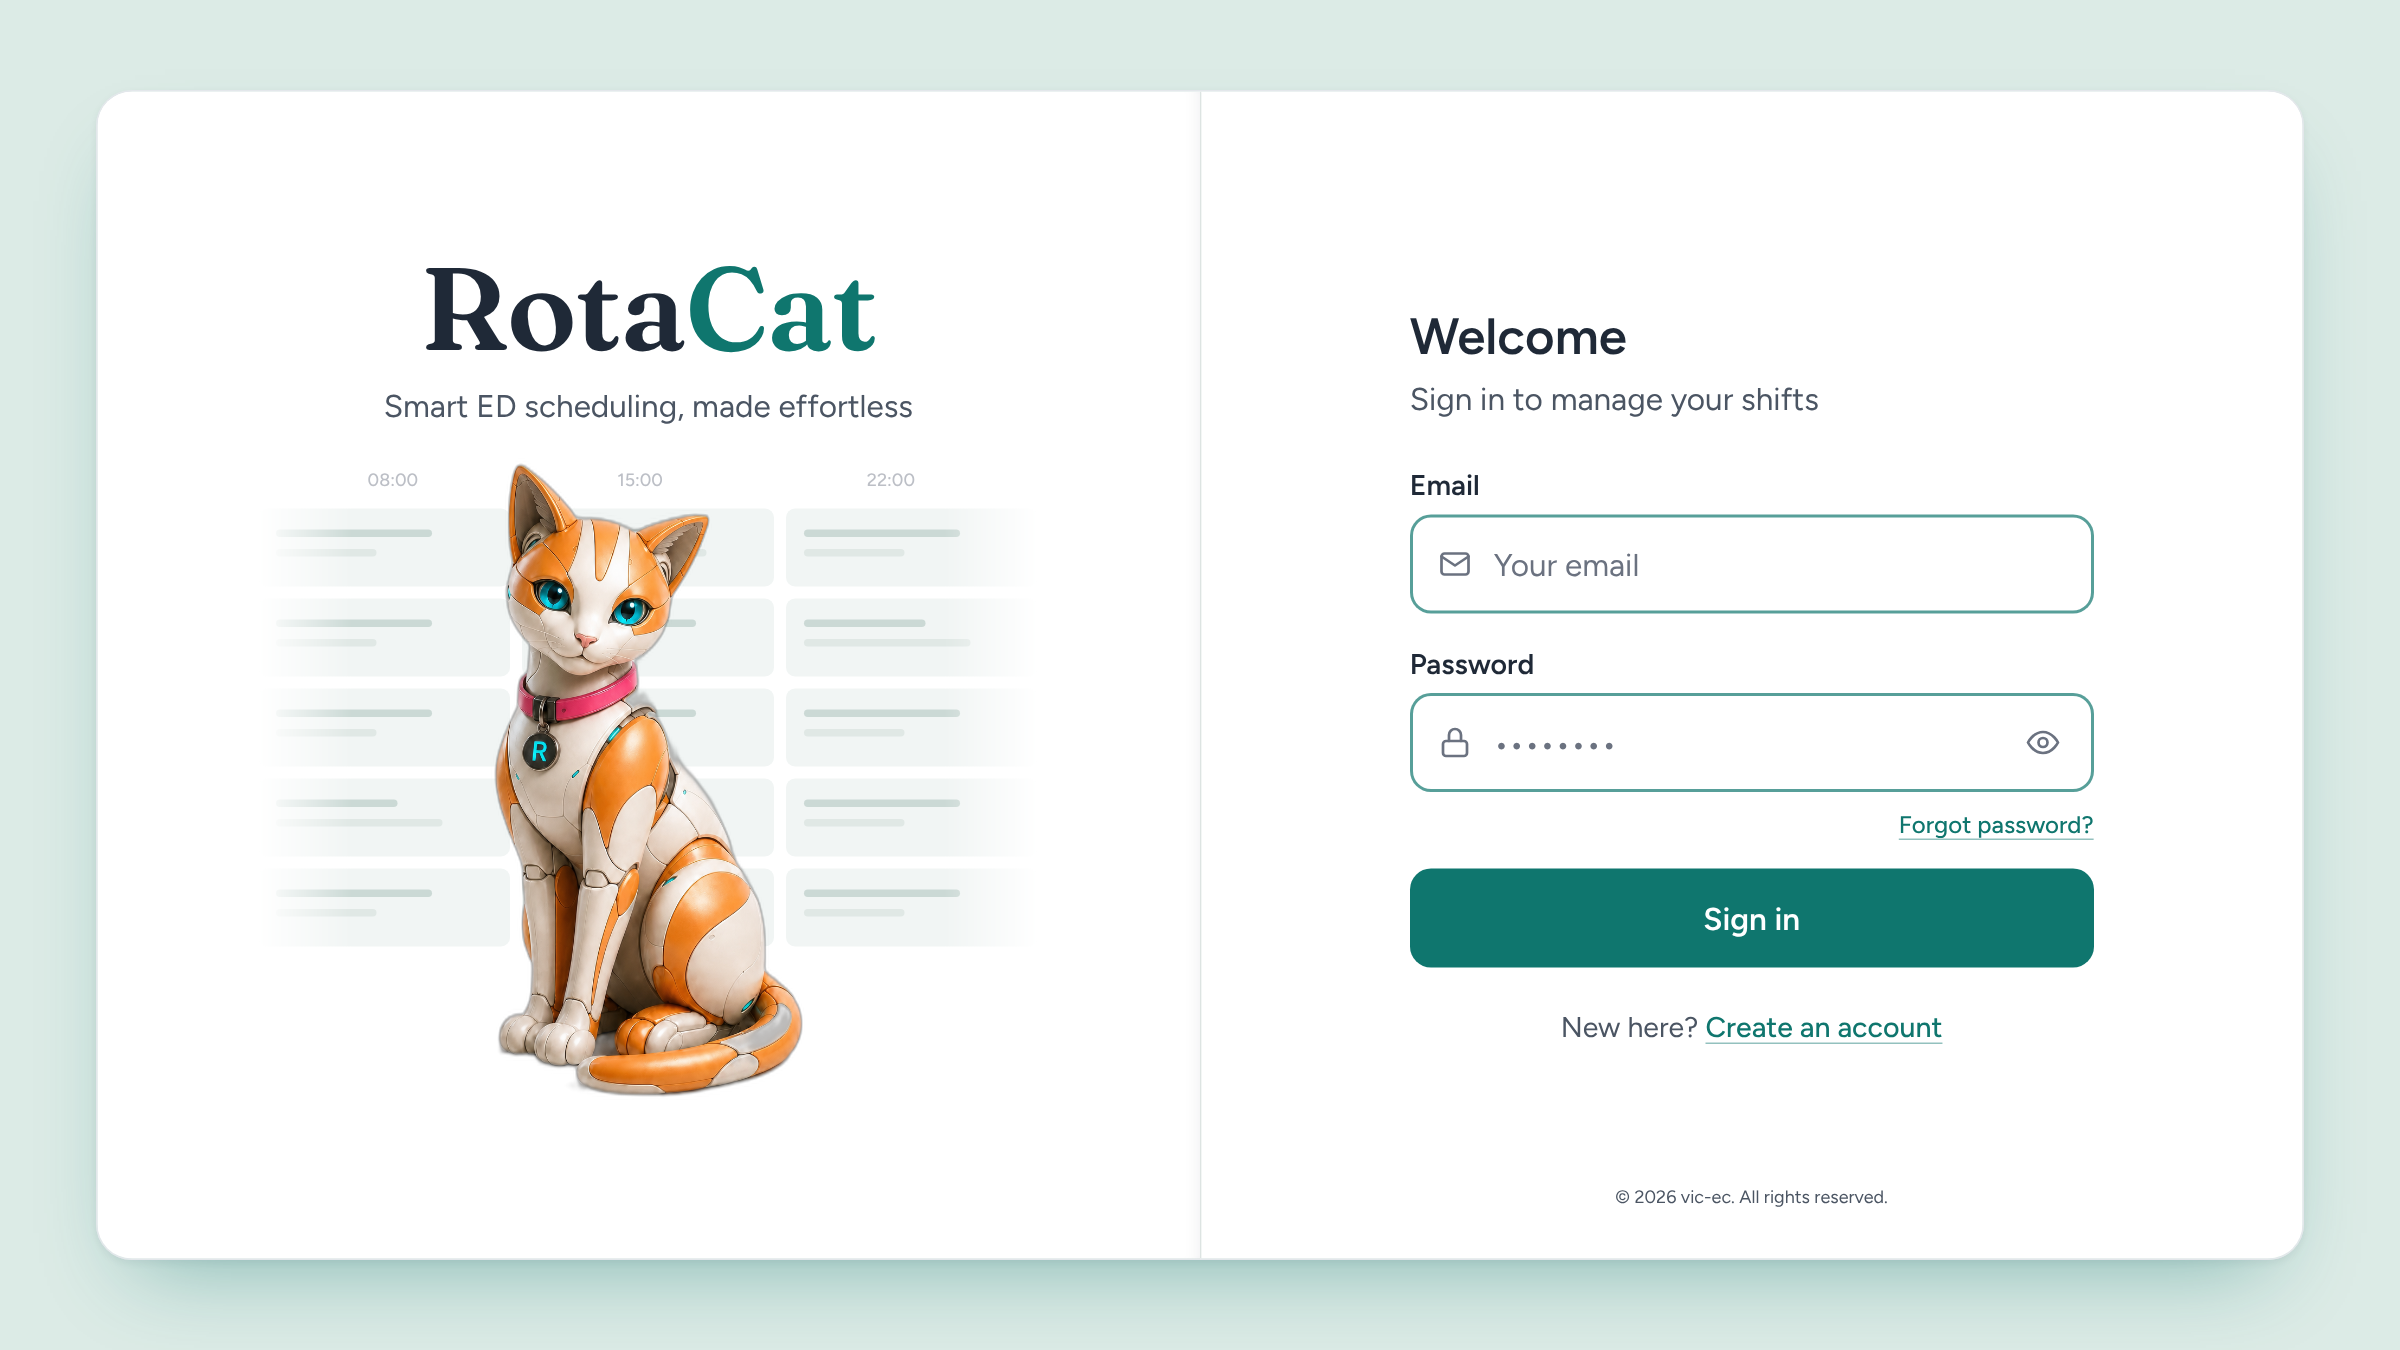
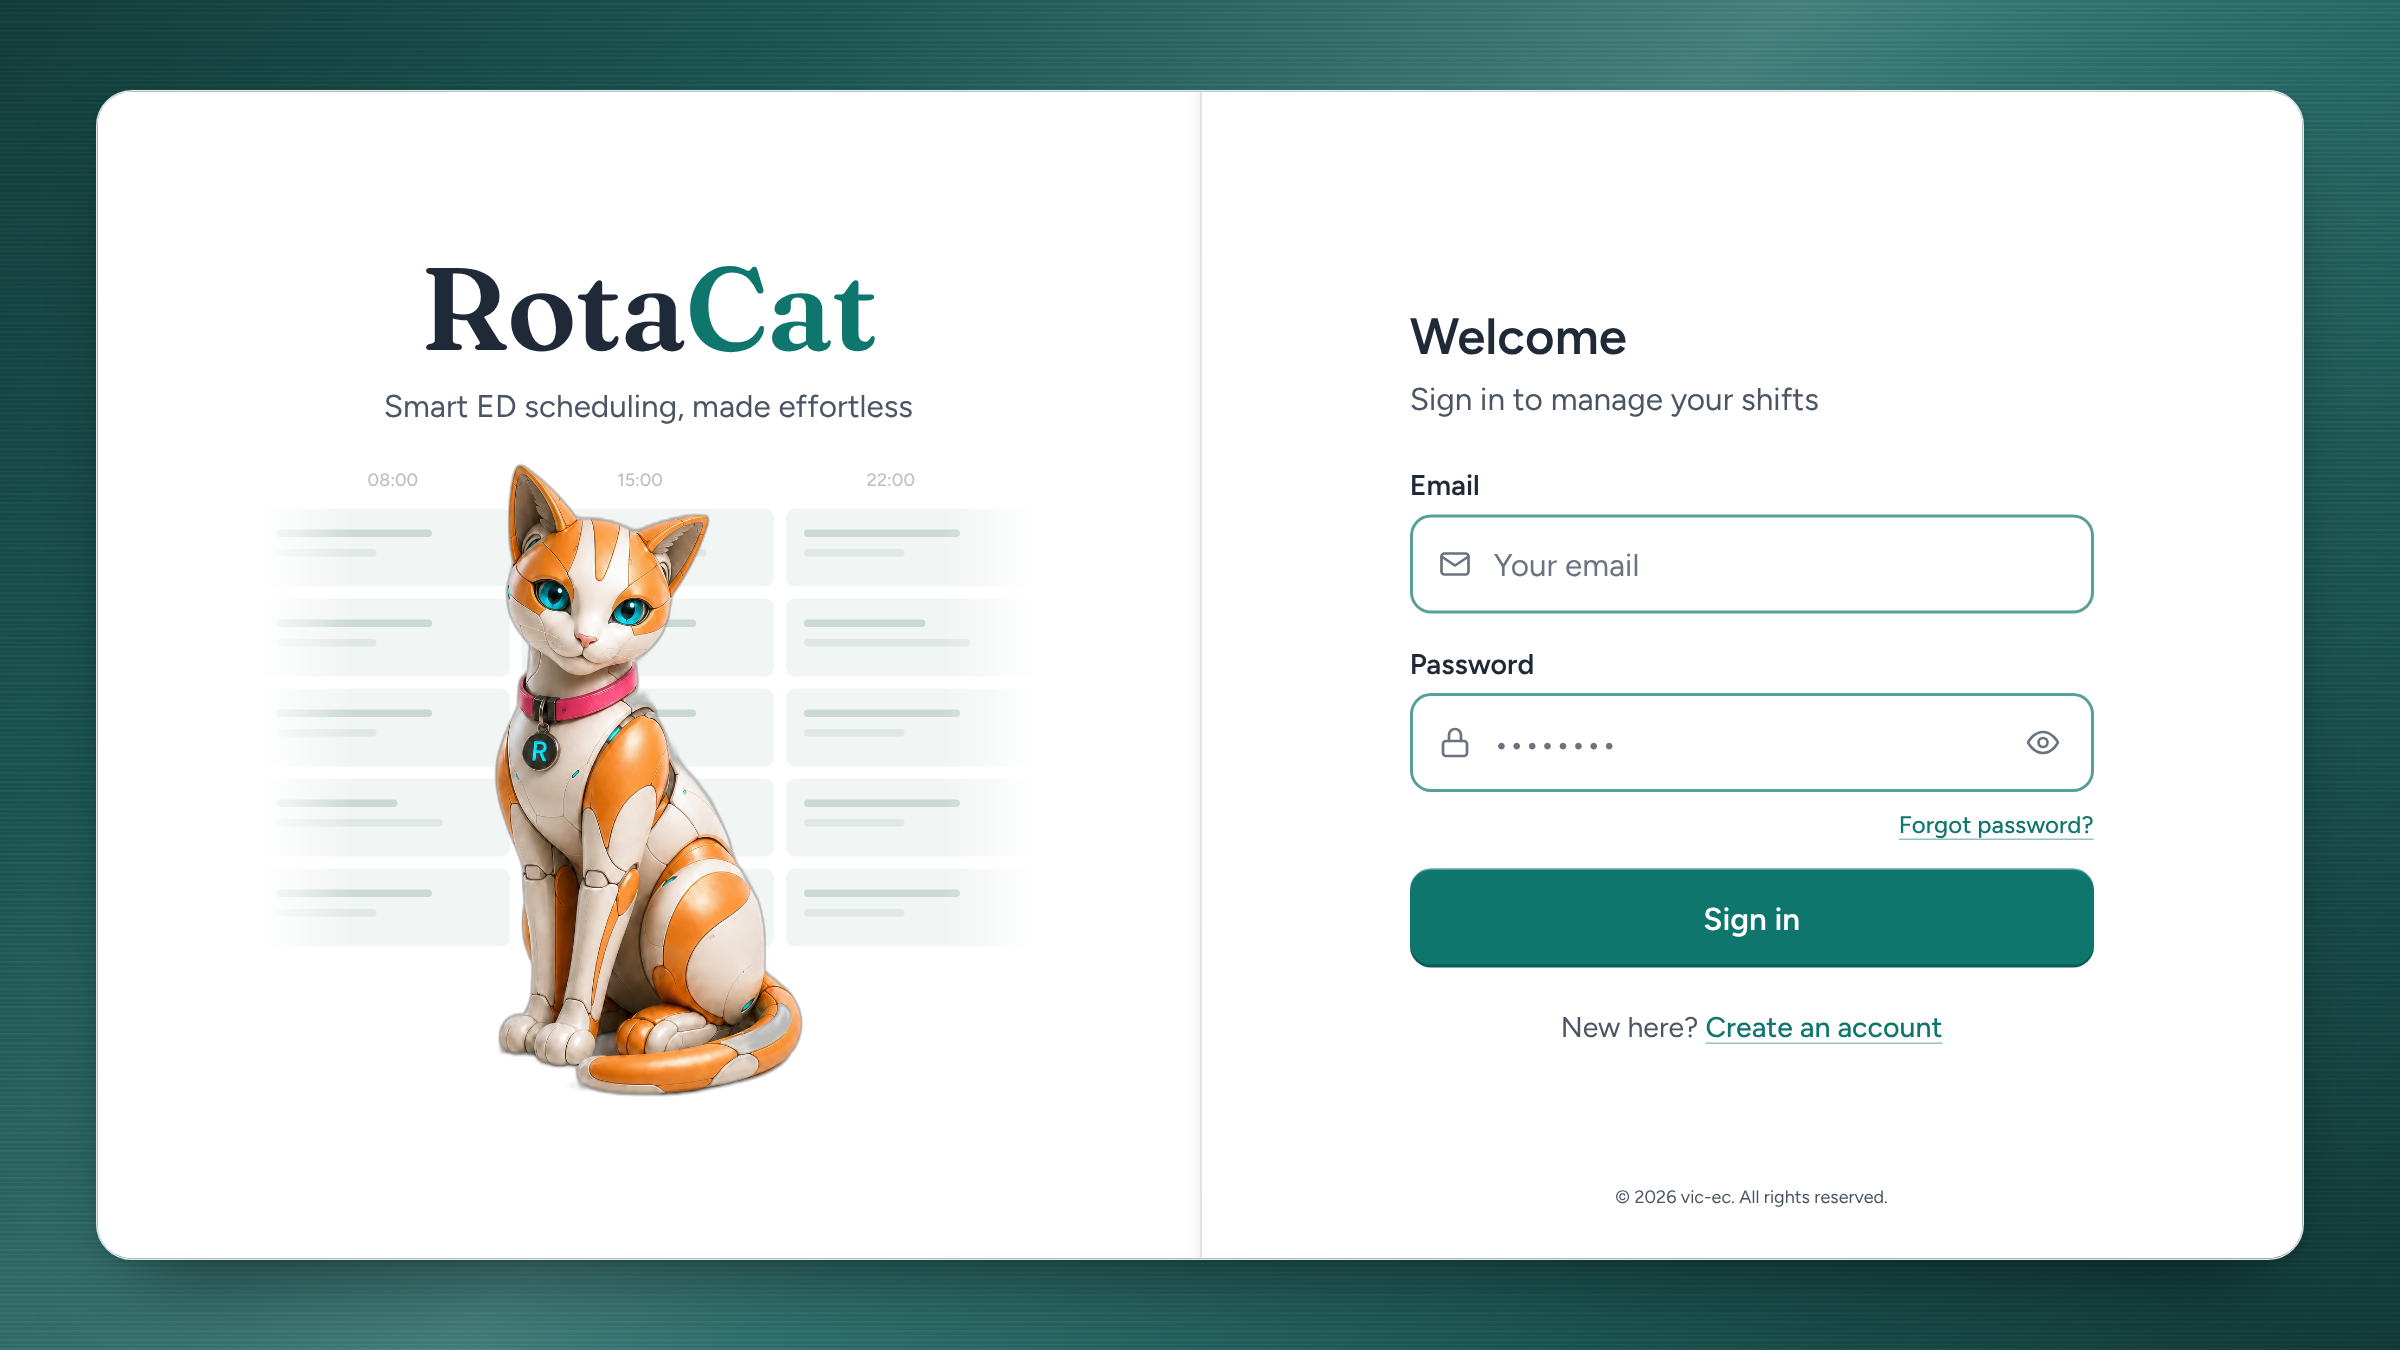
Add files via upload

Changed region(s): [[0.0, 0.0, 1.0, 1.0]]

diff --git a/docs/design/login-redesign/SPEC.md b/docs/design/login-redesign/SPEC.md
@@ -1,6 +1,6 @@
 # RotaCat Login — Implementation Spec
 
-Oct 31, 2026 · Paul Xafis
+Oct 31, 2026 (revised 1 Nov 2026) · Paul Xafis
 
 ## How to work
 
@@ -9,62 +9,101 @@ This doc is the complete brief for rebuilding `/login` in `vic-ec/RotaCat`. Foll
 1. Inspect before editing: `src/pages/LoginPage.jsx`, `AuthHero.jsx`, `MobileAuthHero.jsx`, `PasswordRevealToggle.jsx`, `CapsLockNotice.jsx`, `AuthFooter.jsx`, `src/styles/index.css`, `tailwind.config.js`, `index.html`, and `package.json` (React version decides the `inert` syntax).
 2. Reuse the existing token system (`--color-*` in `index.css`, mapped in `tailwind.config.js`). Add tokens; do not hard-code hex in components.
 3. No new dependencies, UI libraries or animation libraries.
-4. Do not change: fonts, font sizes, font colours (except where the Accessibility table says so), the mascot image and its treatment, the decorative roster grid and its time labels, the password visibility toggle's icon and behaviour, authentication logic, validation rules, routes, Turnstile.
+4. Do not change: fonts, font sizes, font colours (except where the Accessibility table says so), the mascot image and its treatment, the decorative roster grid and its time labels, the password visibility toggle's icon and behaviour, authentication logic, validation rules, routes, Turnstile. Button sizes, radii and labels stay as they are; only the surface treatment changes.
 5. One `SignInForm` component, mounted inline on desktop and inside the existing modal on mobile.
-6. Run lint and build; test desktop (1024, 1440) and mobile (390) before reporting. Finish with: files changed, tokens added, anything from this doc not done and why.
+6. Work in two commits: (a) login page and tokens, (b) app-wide button treatment. Run lint and build after each; test desktop (1024, 1440) and mobile (390) before reporting. Finish with: files changed, tokens added, every button location touched, anything from this doc not done and why.
 
 ## Decisions
 
-The login page moves to a light two-tone card with the sign-in form shown inline on desktop. No dark teal and no mint behind the form.
+The login page becomes a white two-half card on a deep blue-green page with a brushed-metal sheen, the sign-in form inline on desktop, and a bevelled button treatment applied to every button in the app. Decided 1 Nov 2026; supersedes the theme C / light-mint decision of 31 Oct.
 
 | Decision | Choice | Why |
 | --- | --- | --- |
-| Page background | Light mint `#DCEBE6` | Replaces the dark teal `#0F766E` full-page background |
-| Brand half (wordmark, mascot, grid) | White `#FFFFFF` (theme C) | Both halves white; the light-mint page carries the brand colour |
-| Login half | White `#FFFFFF`, flush against the brand half | Highest contrast for the form; the two halves share one shell |
+| Page background | Blue-green 6 `#1F6763` with sheen | Deep enough that the white card is the only light object; hue still reads on a weak monitor; same hue family as the app's teal |
+| Sheen | Corner-dark diagonal, highlight running bottom-left to top-right, 1 px horizontal grain | Brushed-metal satin, not gloss. Pure CSS, no image |
+| Brand half and login half | Both white `#FFFFFF`, flush, 1 px seam | The card is the spotlight; the page carries the colour |
 | Desktop form | Inline at `lg:` (1024 px+); modal kept for mobile | Saves a click per login and removes the modal focus-trap problem on desktop |
-| Text links | Teal `#0F766E` for "Forgot password?" and "Create an account" | Rose `#D6577E` on white is 3.80:1 and fails AA; teal on white is 5.47:1. Rose stays a brand accent (mascot collar), not a UI colour |
+| Buttons (app-wide) | Inset bevel: 1 px light top edge, 2 px dark bottom edge, no drop shadow | Reads as a physical key against the brushed page; applies to every button, mobile and desktop |
+| Text links | Teal `#0F766E` for "Forgot password?" and "Create an account" | Rose `#D6577E` on white is 3.80:1 and fails AA; teal on white is 5.47:1. Rose stays a brand accent, not a UI colour |
 | Email placeholder | `Your email` | Neutral; no organisation domain |
+| Mobile sheet | White, on the same deep page | The old mint sheet does not work on a deep page; see Mobile |
 | Fonts, sizes, font colours | Unchanged from live | Fraunces wordmark, Figtree body, `#1F2937` / `#4B5563` ink |
 | Decorative roster grid | Unchanged | Decorative, `aria-hidden`; time labels stay faint |
 
 ## Visual spec
 
-One raised shell, two flush white halves, a 1 px seam, on a light-mint page. Theme C, approved 31 Oct.
+One raised white card, two flush halves, a 1 px seam, on a deep blue-green brushed-metal page. Approved 1 Nov.
 
-![Target: theme C, desktop 1600 px, inline form](./target-desktop.png)
+![Target: Blue-green 6 with sheen, desktop 1600 px, inline form, bevelled button](./target-desktop.png)
 
 | Token | Value | Use |
 | --- | --- | --- |
-| `--color-canvas` | `#DCEBE6` | Page background (light mint) |
-| `--color-panel` | `#FFFFFF` | Both halves |
+| `--color-canvas` | `#1F6763` | Page base colour (Blue-green 6) |
+| `--bg-canvas-sheen` | see CSS block below | Page background: the sheen layers over `--color-canvas`. Apply to the auth page wrapper on desktop and mobile |
+| `--color-panel` | `#FFFFFF` | Both halves of the card; the mobile sheet |
 | `--color-seam` | `#DDE4E2` | 1 px divider; plus `box-shadow: inset -10px 0 14px -14px rgba(15,23,42,.14)` on the brand half's right edge |
-| `--color-shell-border` | `#E3E7EB` | 1 px hairline round the shell |
+| `--color-shell-border` | `#E3E7EB` | 1 px hairline round the card |
 | `--color-grid-cell` | `#F1F5F4` | Decorative roster cells |
 | `--color-grid-bar` | `#CBD9D5` / `#E0E8E5` | Bars inside cells (primary / secondary) |
-| Shell radius | 24 px | Outer corners only; halves square |
-| Shell shadow | `0 28px 56px -26px rgba(15,118,110,.45), 0 2px 6px rgba(15,23,42,.06), inset 0 1px 0 rgba(255,255,255,.95)` | One shadow on the shell, none on the halves |
-| Shell inset | 60 px top/bottom, 64 px sides at 1600 px | Scale with viewport; halves stay 50/50 |
+| Card radius | 24 px | Outer corners only; halves square |
+| Card shadow | `0 30px 60px -26px rgba(0,0,0,.6), 0 2px 6px rgba(15,23,42,.10), inset 0 1px 0 rgba(255,255,255,.95)` | Near-black so the card separates from the deep page |
+| Card inset | 60 px top/bottom, 64 px sides at 1600 px | Scale with viewport; halves stay 50/50 |
 | Form width | 456 px, centred in the login half | Heading, fields, button and links share this width |
 | Input border | `#0F766E` at 70% (`border-accent/70`), 2 px, 14 px radius | 3.07:1 on white; was 50% |
 | Input focus | solid `#0F766E` 2 px outline, 2 px offset | Was `accent/25` |
-| Primary button | `#0F766E`, white text, 14 px radius, 66 px tall | Unchanged colour |
 | Links | `#0F766E`, underlined, `underline-offset-4`, decoration at 45% | "Forgot password?" (right-aligned under Password) and "Create an account" |
 | Footer | `#4B5563`, 12 px, bottom of the login half | Was `#6B7280` at 10 px |
 
+Page background CSS (two layers over the base colour; keep the order):
+
+```css
+.auth-page {
+  background:
+    linear-gradient(135deg,
+      rgba(0,0,0,.42) 0%, rgba(0,0,0,.18) 22%,
+      rgba(255,255,255,.16) 48%, rgba(255,255,255,.07) 56%,
+      rgba(0,0,0,.18) 78%, rgba(0,0,0,.45) 100%),
+    repeating-linear-gradient(0deg,
+      rgba(255,255,255,.05) 0 1px, rgba(0,0,0,.02) 1px 2px, transparent 2px 3px),
+    #1F6763;
+}
+```
+
+Layer 1 darkens the top-left and bottom-right corners and puts the highlight band on the bottom-left to top-right diagonal. Layer 2 is the brushed grain. If a ward monitor shows banding in the margins, remove layer 2 and keep the rest. The sheen is static; no motion.
+
 What does not change: Fraunces 600 wordmark with teal "Cat"; Figtree body; `#1F2937` headings; `#4B5563` secondary text; the mascot image, scale and position; the roster grid and its 45%-opacity time labels.
 
-The seam is subtle by design. If it disappears on a ward monitor, widen it to 2 px before adding any colour; do not reintroduce a mint or grey half.
+The seam is subtle by design. If it disappears on a ward monitor, widen it to 2 px before adding any colour. Do not add a mint or grey half, and do not lighten the page to compensate.
+
+## Button system (app-wide)
+
+Every button in RotaCat, on every page and at every breakpoint, takes the same inset bevel. One utility or component class, applied everywhere; no per-page overrides.
+
+![Button states: default, hover, active, focus-visible, disabled, secondary, danger](./button-states.png)
+
+| Variant / state | Treatment |
+| --- | --- |
+| Primary, default | `background: #0F766E; color: #fff; box-shadow: inset 0 1px 0 rgba(255,255,255,.28), inset 0 -2px 0 rgba(0,0,0,.22)`. No outer shadow. Radius, height and type unchanged from the existing button |
+| Primary, hover | Background one step darker `#0C6159`; bevel unchanged |
+| Primary, active (pressed) | Background `#0C6159`; bevel inverted: `inset 0 2px 0 rgba(0,0,0,.22), inset 0 -1px 0 rgba(255,255,255,.18)` |
+| Primary, focus-visible | Existing solid outline (`#1F2937` or `#0F766E`, 2 px, 3 px offset); bevel unchanged |
+| Disabled / `aria-disabled` | `opacity: .6; box-shadow: none` — a disabled button is flat |
+| Secondary (outlined) | White background, teal text, existing 2 px `accent/70` border; bevel `inset 0 1px 0 rgba(255,255,255,.9), inset 0 -2px 0 rgba(15,118,110,.14)` |
+| Danger | Same bevel as primary on the existing red (`inset 0 -2px 0 rgba(0,0,0,.25)`) |
+| Icon-only buttons (e.g. the password eye) | No bevel. The bevel is for buttons with a filled or outlined surface |
+| Mobile | Identical values. No size change; the bevel is 3 px total and survives any scale |
+
+Implementation notes: put the bevel on a `.btn` base class (or the existing Button component) and remove any per-page `shadow-*` utilities on buttons. Where a button already has a `box-shadow` for another reason, the bevel wins. The Welcome "Sign in" button on mobile, the modal submit buttons, the roster-page actions and the account-page buttons are all in scope. Audit with a grep for `<button` and for `shadow-` on button elements.
 
 ## Mobile
 
-The mobile layout (below 1024 px) keeps its current structure: hero on top, bottom sheet with the Welcome button, sign-in form in the existing modal. Only these change:
+The mobile layout (below 1024 px) keeps its structure: hero on top, bottom sheet with the Welcome button, sign-in form in the existing modal. These change:
 
 - Token changes flow through: `Your email` placeholder, teal underlined links, `accent/70` borders, solid focus ring, `#92600F` Caps Lock, footer `#4B5563` 12 px.
 - P1-1 (`inert`, `role="dialog"`), P2-3 (`min-h-dvh` / `min-h-[44dvh]`), P3-1 (toggle hit area), P3-2 (link order) apply inside the modal.
 - The modal form must also hold field positions: the credential banner sits above the modal title, inline messages in the gap below their field, exactly as on desktop.
 
-Optional, not required: the bottom sheet is currently mint `#C7E8E0`. For consistency with theme C it could become white on a `#DCEBE6` page with the same seam treatment along its top edge. Leave it unless time allows.
+Required, not optional: the bottom sheet changes from mint `#C7E8E0` to white `#FFFFFF`, with the same seam treatment along its top edge (`border-top: 1px solid #DDE4E2` and the inset shadow rotated to the top). The page behind the hero and sheet is `--bg-canvas-sheen` on `#1F6763`, same as desktop. The mobile hero (wordmark, mascot, grid) sits on that page, not on a white panel, so the wordmark's dark ink `#1F2937` must be re-checked: if it fails on the deep page, give the mobile hero a white rounded panel matching the desktop brand half rather than changing the font colour. All buttons on mobile take the app-wide bevel.
 
 ## SignInForm component
 
@@ -101,7 +140,7 @@ Also fix `text-[18.9 px]` → `text-lg` if the space is present in the class (re
 
 **Fixed field positions.** No state may move the Email field, Password field or Sign in button. The credential-error banner is absolutely positioned above the "Welcome" heading (`position:absolute; bottom:100%; margin-bottom:30px` on a wrapper inside the relatively positioned form), so it occupies no layout space. Inline field messages (email invalid, Caps Lock) render inside the existing 22 px gap below their field as zero-height elements (`height:0; overflow:visible`, `translateY(6px)`, 14 px). Verified against four states in the image below.
 
-![Default, credential error, email invalid, Caps Lock — fields and button do not move](./states-fixed-fields.png)
+![Eight states on the final theme](./states-sheet.png)
 
 ## Deferred or dropped from the audit
 
@@ -117,7 +156,7 @@ Also fix `text-[18.9 px]` → `text-lg` if the space is present in the class (re
 
 ## States to design and test
 
-Every audit failure lives in a non-default state. Four states are shown in the image under Fixed field positions; the rest follow the same tokens. Each state gets a manual check.
+Every audit failure lives in a non-default state. All eight are shown in the image under Fixed field positions, on the final theme. Each state gets a manual check.
 
 | State | Trigger | What must be visible |
 | --- | --- | --- |
@@ -143,3 +182,7 @@ Every audit failure lives in a non-default state. Four states are shown in the i
 - [ ] 768 px: "Create an account" on one line
 - [ ] Eye toggle: 40×40 px hit area, icon unchanged, state announced
 - [ ] Visual diff against the target image in Visual spec: fonts, sizes and font colours unchanged; mascot and grid unchanged
+- [ ] Page background: corners dark, highlight band runs bottom-left to top-right, grain visible in the margins at 100% zoom
+- [ ] Every `<button>` in the app shows the bevel; `grep -rn "shadow-" src | grep -i button` returns nothing that overrides it
+- [ ] Button active state presses in (bevel inverts); disabled state is flat
+- [ ] Mobile sheet is white; wordmark legible on the mobile hero
